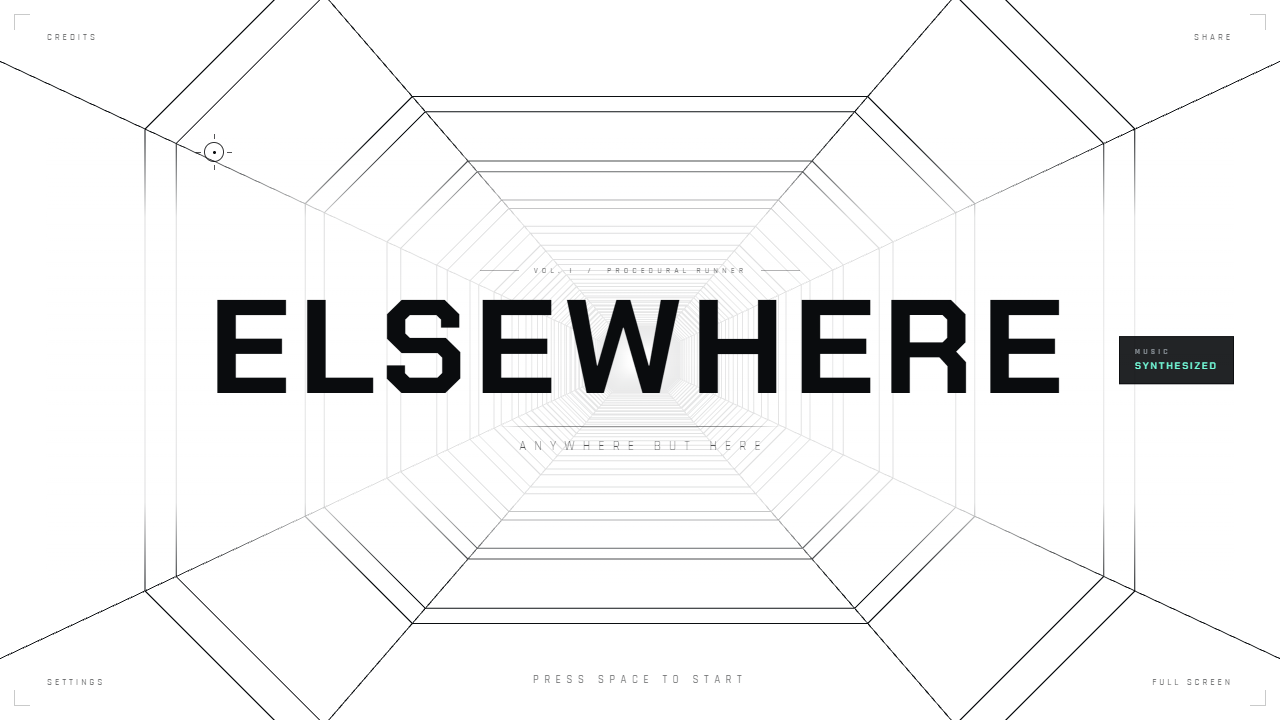
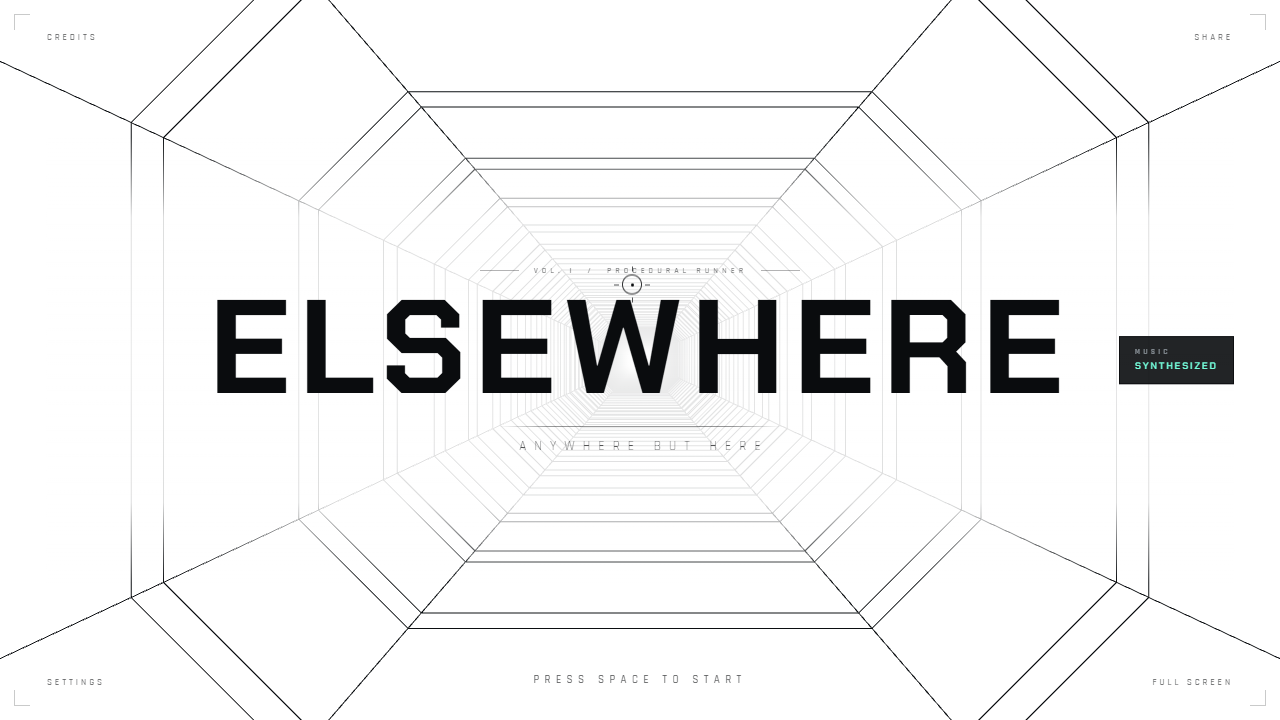
feat(post): stage 0 — depth of field, converged bloom, calmer scanlines
- add a depth-of-field pass: a half-res prepass writes linear view-space distance
  into a float target, then a 14-tap golden-angle gather blurs by circle of confusion
- focus follows the nearest gate, clamped to 26..130 units so the next opening
  never smears out
- two bugs fixed on the way: the prepass was reading three's RGBA-packed depth as if
  it were linear, and the gather offset multiplied an already-normalised radius by
  the texel size, leaving a 0.03 px blur
- bloom threshold 0.72 -> 0.82, intensity 1.05 -> 0.92
- gate curtain loses scanline contrast as it approaches (uDetail), near fade widened
  from 8 to 15 units, which kills the full-screen banding on close passes
- ?dof=aperture,maxblur for inspection

diff --git a/js/post.js b/js/post.js
@@ -1,14 +1,86 @@
 import * as THREE from 'three';
 
 /* ------------------------------------------------------------------ *
- *  Minimal post stack: bright-pass -> separable blur -> composite
- *  (bloom, chromatic aberration, vignette, grain, scanlines, flash)
+ *  Post: DOF -> bright pass -> separable blur -> composite
+ *  (depth of field, bloom, chromatic aberration, vignette, grain,
+ *   scanlines, flash, ACES shoulder)
  * ------------------------------------------------------------------ */
+
 const VS = /* glsl */`
 varying vec2 vUv;
 void main(){
   vUv = uv;
   gl_Position = vec4(position.xy, 0.0, 1.0);
+}
+`;
+
+/* linear view-space distance, written straight into R */
+const DEPTH_VS = /* glsl */`
+varying float vDepth;
+void main(){
+  vec4 mv = modelViewMatrix * vec4(position, 1.0);
+  vDepth = -mv.z;
+  gl_Position = projectionMatrix * mv;
+}
+`;
+
+const DEPTH_FS = /* glsl */`
+varying float vDepth;
+void main(){
+  gl_FragColor = vec4(vDepth, 0.0, 0.0, 1.0);
+}
+`;
+
+const DOF = /* glsl */`precision highp float;
+varying vec2 vUv;
+
+uniform sampler2D tColor;
+uniform sampler2D tDepth;
+uniform vec2  uTexel;     // 1 / resolution
+uniform float uNear;
+uniform float uFar;
+uniform float uFocus;     // world units
+uniform float uAperture;  // how fast CoC grows
+uniform float uMaxBlur;   // max radius, fraction of screen height
+
+float coc(float lin){
+  float rel = abs(lin - uFocus) / max(uFocus, 1.0);
+  return clamp(rel * uAperture, 0.0, 1.0) * uMaxBlur;
+}
+
+void main(){
+  vec3 col = texture2D(tColor, vUv).rgb;
+  float d0 = texture2D(tDepth, vUv).r;
+  float r0 = coc(d0);
+
+  if (r0 < 0.0006) {
+    gl_FragColor = vec4(col, 1.0);
+    return;
+  }
+
+  const int N = 14;
+  float radius = r0;
+  vec3 sum = col;
+  float wsum = 1.0;
+
+  for (int i = 0; i < N; i++) {
+    float fi = float(i);
+    float ang = fi * 2.39996323;                    // golden angle
+    float rad = sqrt((fi + 0.5) / float(N));
+    vec2 off = vec2(cos(ang), sin(ang)) * rad * radius * vec2(uTexel.y / uTexel.x, 1.0);
+
+    vec3 s = texture2D(tColor, vUv + off).rgb;
+    float ds = texture2D(tDepth, vUv + off).r;
+    float rs = coc(ds);
+
+    // a sample contributes if its own circle reaches this pixel
+    float w = smoothstep(0.0, 1.0, rs / max(r0, 1e-4));
+    w = max(w, 0.12);
+    sum += s * w;
+    wsum += w;
+  }
+
+  gl_FragColor = vec4(sum / wsum, 1.0);
 }
 `;
 
@@ -30,7 +102,7 @@ const BLUR = /* glsl */`
 precision highp float;
 varying vec2 vUv;
 uniform sampler2D tSrc;
-uniform vec2 uDir;      // texel-scaled direction
+uniform vec2 uDir;
 void main(){
   vec3 sum = texture2D(tSrc, vUv).rgb * 0.227027;
   sum += texture2D(tSrc, vUv + uDir * 1.384615).rgb * 0.316216;
@@ -69,34 +141,27 @@ void main(){
   vec2 d = uv - 0.5;
   float r2 = dot(d, d);
 
-  // radial chromatic aberration
   vec2 off = d * r2 * uCA;
   vec3 col;
   col.r = texture2D(tScene, uv + off).r;
   col.g = texture2D(tScene, uv).g;
   col.b = texture2D(tScene, uv - off).b;
 
-  vec3 bloom = texture2D(tBloom, uv).rgb;
-  col += bloom * uBloom;
+  col += texture2D(tBloom, uv).rgb * uBloom;
 
   col *= uExposure;
 
-  // vignette
   float vig = smoothstep(0.95, 0.15, r2 * 1.35);
   col *= mix(1.0, vig, uVignette);
 
-  // scanlines
   float sl = 0.5 + 0.5 * sin(uv.y * uRes.y * 3.14159265);
   col *= 1.0 - uScan * 0.5 * sl;
 
-  // film grain
   float g = fract(sin(dot(uv * uRes + uTime * 61.0, vec2(12.9898, 78.233))) * 43758.5453);
   col += (g - 0.5) * uGrain;
 
-  // flash
   col = mix(col, uFlashColor, clamp(uFlash, 0.0, 1.0));
 
-  // gentle filmic shoulder
   col = aces(col * 1.05);
 
   if (uInvert > 0.5) col = 1.0 - col;
@@ -108,7 +173,6 @@ void main(){
 export class PostFX {
   constructor(renderer) {
     this.renderer = renderer;
-    this.enabled = true;
 
     this.scene = new THREE.Scene();
     this.cam = new THREE.OrthographicCamera(-1, 1, 1, -1, -1, 1);
@@ -127,16 +191,51 @@ export class PostFX {
     };
 
     this.rtScene = new THREE.WebGLRenderTarget(2, 2, rtOpts);
-    this.rtScene.depthTexture = null;
+    this.rtDof = new THREE.WebGLRenderTarget(2, 2, { ...rtOpts, depthBuffer: false, samples: 0 });
 
     const bw = { ...rtOpts, depthBuffer: false, samples: 0 };
     this.rtA = new THREE.WebGLRenderTarget(2, 2, bw);
     this.rtB = new THREE.WebGLRenderTarget(2, 2, bw);
-    this.rtC = new THREE.WebGLRenderTarget(2, 2, bw);
+
+    // depth comes from its own packed pass — cheap geometry, and it keeps
+    // MSAA on the colour target untouched
+    this.rtDepth = new THREE.WebGLRenderTarget(2, 2, {
+      minFilter: THREE.NearestFilter,
+      magFilter: THREE.NearestFilter,
+      format: THREE.RGBAFormat,
+      type: THREE.HalfFloatType,
+      depthBuffer: true,
+      stencilBuffer: false,
+      samples: 0,
+    });
+
+    // writes view-space distance straight into R — no packing, no decoding
+    this.depthMat = new THREE.ShaderMaterial({
+      vertexShader: DEPTH_VS,
+      fragmentShader: DEPTH_FS,
+      side: THREE.DoubleSide,
+      depthTest: true,
+      depthWrite: true,
+    });
+
+    this.dofMat = new THREE.ShaderMaterial({
+      vertexShader: VS, fragmentShader: DOF,
+      uniforms: {
+        tColor: { value: null },
+        tDepth: { value: null },
+        uTexel: { value: new THREE.Vector2() },
+        uNear: { value: 0.1 },
+        uFar: { value: 420.0 },
+        uFocus: { value: 40.0 },
+        uAperture: { value: 0.38 },
+        uMaxBlur: { value: 0.006 },
+      },
+      depthTest: false, depthWrite: false,
+    });
 
     this.brightMat = new THREE.ShaderMaterial({
       vertexShader: VS, fragmentShader: BRIGHT,
-      uniforms: { tSrc: { value: null }, uThreshold: { value: 0.78 }, uSoft: { value: 0.40 } },
+      uniforms: { tSrc: { value: null }, uThreshold: { value: 0.82 }, uSoft: { value: 0.30 } },
       depthTest: false, depthWrite: false,
     });
 
@@ -153,11 +252,11 @@ export class PostFX {
         tBloom: { value: null },
         uRes: { value: new THREE.Vector2(1, 1) },
         uTime: { value: 0 },
-        uBloom: { value: 1.05 },
-        uCA: { value: 0.010 },
-        uVignette: { value: 0.9 },
-        uGrain: { value: 0.035 },
-        uScan: { value: 0.10 },
+        uBloom: { value: 0.92 },
+        uCA: { value: 0.008 },
+        uVignette: { value: 0.92 },
+        uGrain: { value: 0.030 },
+        uScan: { value: 0.06 },
         uFlash: { value: 0 },
         uFlashColor: { value: new THREE.Color(1, 1, 1) },
         uExposure: { value: 1.0 },
@@ -171,15 +270,25 @@ export class PostFX {
     const W = Math.max(2, Math.floor(w * pr));
     const H = Math.max(2, Math.floor(h * pr));
     this.rtScene.setSize(W, H);
+    this.rtDof.setSize(W, H);
+    this.rtDepth.setSize(Math.max(2, W >> 1), Math.max(2, H >> 1));
+
     const bw = Math.max(2, Math.floor(W / 4));
     const bh = Math.max(2, Math.floor(H / 4));
     this.rtA.setSize(bw, bh);
     this.rtB.setSize(bw, bh);
-    this.rtC.setSize(Math.max(2, W >> 1), Math.max(2, H >> 1));
+
     this.compMat.uniforms.uRes.value.set(W, H);
+    this.dofMat.uniforms.uTexel.value.set(1 / W, 1 / H);
+
     this._W = W; this._H = H;
     this._bw = bw; this._bh = bh;
-    this._hw = Math.max(2, W >> 1); this._hh = Math.max(2, H >> 1);
+  }
+
+  /** focus is in world units; called every frame from the game loop */
+  setFocus(dist) {
+    const u = this.dofMat.uniforms;
+    u.uFocus.value += (dist - u.uFocus.value) * 0.12;
   }
 
   _pass(mat, target) {
@@ -192,16 +301,39 @@ export class PostFX {
   render(scene, camera, time) {
     const r = this.renderer;
 
-    // 1. scene
+    // 1. depth-only pass (gates excluded: they are additive, not geometry)
+    const gateVis = [];
+    const hidden = [];
+    scene.traverse((o) => {
+      if (o.isMesh && o.material && o.material.blending === THREE.AdditiveBlending) {
+        gateVis.push([o, o.visible]);
+        o.visible = false;
+      }
+    });
+    const prevOverride = scene.overrideMaterial;
+    scene.overrideMaterial = this.depthMat;
+    r.setRenderTarget(this.rtDepth);
+    r.clear();
+    r.render(scene, camera);
+    scene.overrideMaterial = prevOverride;
+    for (const [o, v] of gateVis) o.visible = v;
+
+    // 2. scene colour
     r.setRenderTarget(this.rtScene);
     r.clear();
     r.render(scene, camera);
 
-    // 2. bright pass -> quarter res
-    this.brightMat.uniforms.tSrc.value = this.rtScene.texture;
+    // 3. depth of field
+    this.dofMat.uniforms.tColor.value = this.rtScene.texture;
+    this.dofMat.uniforms.tDepth.value = this.rtDepth.texture;
+    this.dofMat.uniforms.uNear.value = camera.near;
+    this.dofMat.uniforms.uFar.value = camera.far;
+    this._pass(this.dofMat, this.rtDof);
+
+    // 4. bloom
+    this.brightMat.uniforms.tSrc.value = this.rtDof.texture;
     this._pass(this.brightMat, this.rtA);
 
-    // 3. two blur iterations H/V at quarter res
     const b = this.blurMat;
     for (let i = 0; i < 2; i++) {
       const scale = i === 0 ? 1.0 : 2.0;
@@ -213,9 +345,9 @@ export class PostFX {
       this._pass(b, this.rtA);
     }
 
-    // 4. composite
+    // 5. composite
     const u = this.compMat.uniforms;
-    u.tScene.value = this.rtScene.texture;
+    u.tScene.value = this.rtDof.texture;
     u.tBloom.value = this.rtA.texture;
     u.uTime.value = time;
     this._pass(this.compMat, null);

diff --git a/js/gates.js b/js/gates.js
@@ -34,6 +34,7 @@ uniform float uTime;
 uniform float uFade;
 uniform float uSeed;
 uniform float uHit;
+uniform float uDetail;
 
 float sdHexagon(vec2 p, float r){
   const vec3 k = vec3(-0.8660254, 0.5, 0.57735);
@@ -74,8 +75,8 @@ void main(){
   sweep = pow(sweep, 7.0);
 
   float a = 0.0;
-  a += inside * (0.30 + 0.18 * scanB);
-  a += inside * 0.80 * scan * (0.40 + 0.60 * edge);
+  a += inside * (0.34 + 0.18 * scanB);
+  a += inside * mix(0.30, 0.80, uDetail) * scan * (0.40 + 0.60 * edge);
   a += inside * 0.09 * grain;
   a += edge * 1.45;
   a += frame * 0.55;
@@ -136,6 +137,7 @@ export class Gate {
         uFade: { value: 0 },
         uSeed: { value: this.seed },
         uHit: { value: 0 },
+        uDetail: { value: 1 },
       },
       transparent: true,
       blending: THREE.AdditiveBlending,
@@ -167,7 +169,8 @@ export class Gate {
     u.uTime.value = time;
     u.uColor.value.setHSL((hue + this.hueShift + 1) % 1, 0.85, 0.66);
 
-    const near = THREE.MathUtils.smoothstep(this.d, 1.0, 8.0);
+    const near = THREE.MathUtils.smoothstep(this.d, 2.5, 15.0);
+    u.uDetail.value = THREE.MathUtils.clamp(this.d / 22.0, 0, 1);
     const raw = this.spawnD > 2
       ? THREE.MathUtils.clamp((this.spawnD - this.d) / (this.spawnD * 0.22), 0, 1)
       : 1;

diff --git a/js/main.js b/js/main.js
@@ -89,6 +89,11 @@ scene.add(tunnel.group);
 const gates = new Gates(scene);
 const post = new PostFX(renderer);
 post.setSize(window.innerWidth, window.innerHeight, PR);
+if (params.has('dof')) {
+  const [ap, mb] = params.get('dof').split(',').map(Number);
+  post.dofMat.uniforms.uAperture.value = ap;
+  if (!Number.isNaN(mb)) post.dofMat.uniforms.uMaxBlur.value = mb;
+}
 
 /* ------------------------------------------------------------------ *
  *  Wireframe mode (menu) — the signature look of the original
@@ -494,6 +499,13 @@ function step(dt) {
       }
     }
   }
+
+  // focus: pull to the gate you are about to thread -----------------
+  let focus = 46;
+  for (const g of gates.list) {
+    if (g.d > 1 && g.d < focus) focus = g.d;
+  }
+  post.setFocus(THREE.MathUtils.clamp(focus * 1.05, 26, 130));
 
   // score from distance ------------------------------------------
   if (G.state === State.PLAY) G.score += G.speed * sdt * 0.35;

diff --git a/README.md b/README.md
@@ -73,9 +73,11 @@ the vessel, so the marker lands off-centre and slides across the screen as you
 steer. It is projected every frame with `Vector3.project()`, which means what you
 aim with is exactly what collides.
 
-**No post-processing library.** A hand-rolled three-pass chain: bright-pass at quarter
-resolution → separable Gaussian ×2 → composite with bloom, radial chromatic
-aberration, vignette, grain, scanlines, flash and an ACES shoulder.
+**No post-processing library.** A hand-rolled chain: a half-res depth pass (linear
+view-space distance straight into R) → depth-of-field gather with a 14-tap golden-angle
+kernel → bright-pass at quarter resolution → separable Gaussian ×2 → composite with
+bloom, radial chromatic aberration, vignette, grain, scanlines, flash and an ACES
+shoulder. Focus rides the gate you are about to thread.
 
 **The music is synthesized, not loaded.** Drums, bass, pad and arp are scheduled with
 a 120 ms lookahead against `AudioContext.currentTime`, and the game clock reads back
